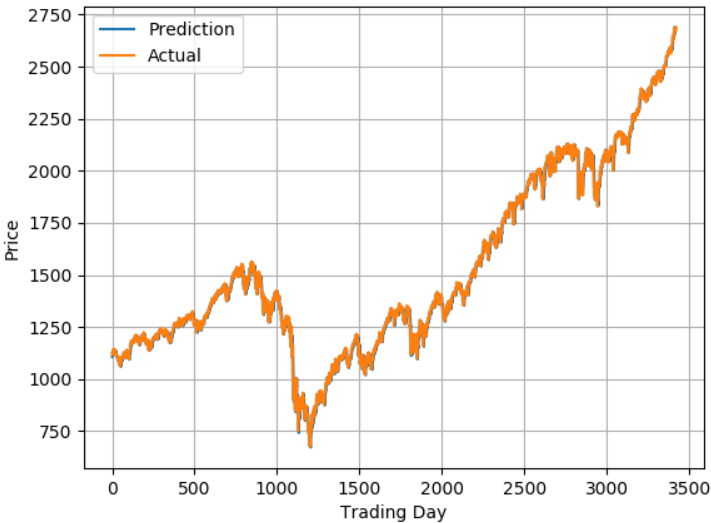
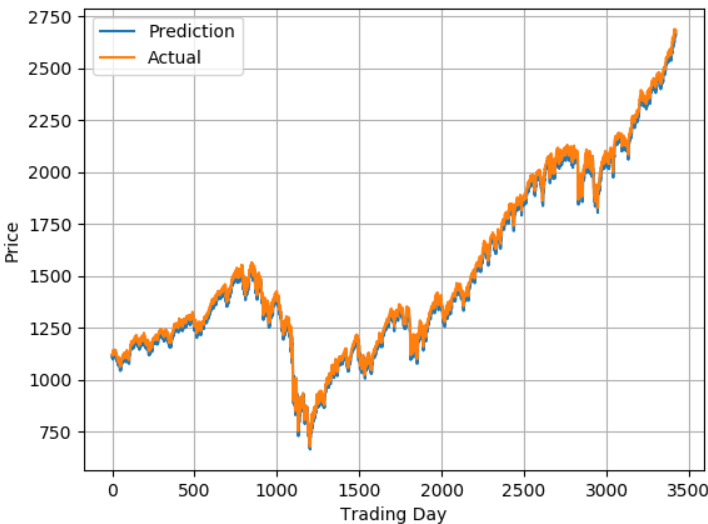
eval

Changed region(s): [[0.0, 0.0, 1.0, 1.0], [0.3729, 0.3977, 0.404, 0.4283], [0.2486, 0.3977, 0.2797, 0.4283]]

diff --git a/machine_learning/optimized_ffnn/ffnn.py b/machine_learning/optimized_ffnn/ffnn.py
@@ -29,6 +29,37 @@ def bulid_TIs_dataset(stock_symbol, start_date, end_date, window, normalize=True
     print(df.tail())
     return df, scaler
 
+def bulid_new_TIs_dataset(stock_symbol, start_date, end_date, window, normalize=True):
+    cols = ["Date", "Adj Close", "Volume"]
+    df = get_stock_data(stock_symbol, start_date, end_date, cols)
+    df.rename(columns={"Adj Close" : 'price'}, inplace=True)
+    df['momentum'] = dpp.compute_momentum_ratio(df['price'], window)
+    df['sma'] = dpp.compute_sma_ratio(df['price'], window)
+    df['bolinger_band'] = dpp.compute_bollinger_bands_ratio(df['price'], window)
+    df['volatility'] = dpp.compute_volatility_ratio(df['price'], window)
+    df['vroc'] = dpp.compute_vroc_ratio(df['Volume'], window)
+    df['actual_price'] = df['price']
+    df.drop(columns=["Volume"], inplace=True)
+    df = df[window:]
+    df.replace([np.inf, -np.inf], np.nan, inplace=True)
+    df.fillna(method='ffill', inplace=True)
+    df.fillna(method='bfill', inplace=True)
+    scaler = None
+
+    if normalize:        
+        scaler = MinMaxScaler()
+        df['price'] = scaler.fit_transform(df['price'].values.reshape(-1,1))
+        df['momentum'] = scaler.fit_transform(df['momentum'].values.reshape(-1,1))
+        df['sma'] = scaler.fit_transform(df['sma'].values.reshape(-1,1))
+        df['bolinger_band'] = scaler.fit_transform(df['bolinger_band'].values.reshape(-1,1))
+        df['volatility'] = scaler.fit_transform(df['volatility'].values.reshape(-1,1))
+        df['vroc'] = scaler.fit_transform(df['vroc'].values.reshape(-1,1))
+        df['actual_price'] = scaler.fit_transform(df['actual_price'].values.reshape(-1,1))
+        
+    print(df.head())
+    print(df.tail())
+    return df, scaler
+
 def ffnn_dataset_reshape(dataset, future_gap, split):
     print("Dataset Shape:", dataset.shape)
     X = dataset[:, :-1]

diff --git a/machine_learning/optimized_ffnn/ffnn_main.py b/machine_learning/optimized_ffnn/ffnn_main.py
@@ -12,13 +12,13 @@ def main(internal_eval=False):
     stock_symbol = '^GSPC'
     start_date = '1950-01-01'
     end_date = '2017-12-31'
-    window = 5
-    dataframe, scaler = ffnn.bulid_TIs_dataset(stock_symbol, start_date, end_date, window)
+    window = 2
+    dataframe, scaler = ffnn.bulid_new_TIs_dataset(stock_symbol, start_date, end_date, window)
 
     #reshaping the dataset for FFNN
     print("\n> reshaping the dataset for FFNN...")
     dataset = dataframe.values
-    future_gap = 5 #1 trading week
+    future_gap = 1 #1 trading day
     split = 0.8 #80% of the dataset
     X_train, Y_train, X_test, Y_test = ffnn.ffnn_dataset_reshape(dataset, future_gap, split)
 
@@ -37,7 +37,7 @@ def main(internal_eval=False):
     batch_size = 4096
     epochs = 200
     validation_split = 0.1
-    history = ffnn.model_fit(model, X_train, Y_train, batch_size, epochs, validation_split,
+    _ = ffnn.model_fit(model, X_train, Y_train, batch_size, epochs, validation_split,
                              verbose, [early_stopping_callback])
 
     #internal evaluation

diff --git a/machine_learning/optimized_lstm/lstm_main.py b/machine_learning/optimized_lstm/lstm_main.py
@@ -12,14 +12,14 @@ def main(internal_eval=False):
     stock_symbol = '^GSPC'
     start_date = '1950-01-01'
     end_date = '2017-12-31'
-    window = 5
+    window = 2
     dataframe, scaler = lstm.bulid_TIs_dataset(stock_symbol, start_date, end_date, window)
 
     #reshaping the dataset for LSTM
     print("\n> reshaping the dataset for LSTM...")
     dataset = dataframe.values
-    time_steps = 5 #1 trading week
-    future_gap = 5 #1 trading day
+    time_steps = 1 #1 trading day
+    future_gap = 1 #1 trading day
     split = 0.8 #80% of the dataset
     X_train, Y_train, X_test, Y_test = lstm.lstm_dataset_reshape(dataset, time_steps, future_gap, split)
 

diff --git a/machine_learning/new_evaluation.md b/machine_learning/new_evaluation.md
@@ -5,8 +5,8 @@
 | stock      | ^GSPC       | S&P 500 |
 | start date | 1950-01-01  | stock historical data start date |
 | end date   | 2017-12-31  | stock historical data end date |
-| window     | 5           | window for computing rolling statistics |
-| future gap | 5           | how far (trading days) into the future is the prediction |
+| window     | 2           | window for computing rolling statistics |
+| future gap | 1, 5, 20    | how far (trading days) into the future is the prediction |
 | split      | 0.8         | training-testing dataset split |
 
 ### Evaluation metrics
@@ -25,10 +25,12 @@
 python -m machine_learning.optimized_lstm.lstm_main
 ```
 | Future Gap | RMSE | MAPE | Corr | R^2 |
-| :--------: | :--: | :--: | :--: | :-: |
-| 1 day      | x    | y    | i    | j   |
-| 1 week     | 0.056| 5.075| 0.092| 0.788|
-| 1 month    | x    | y    | i    | j   |
+| :--------: | :--: | :--: | :--: | :--: |
+| 1 day      | 0.007| 1.033| 0.999| 0.998|
+| 1 week     | 0.012| 1.642| 0.998| 0.995|
+| 1 month    | 0.026| 3.708| 0.992| 0.972|
+
+*shown below is a 1 trading day future gap*
 
 ![Optimized LSTM](https://github.com/ahmedhamdi96/ML4T/blob/master/results/optimized_lstm.png)
 
@@ -38,23 +40,13 @@ python -m machine_learning.optimized_ffnn.ffnn_main
 ```
 | Future Gap | RMSE | MAPE | Corr | R^2 |
 | :--------: | :--: | :--: | :--: | :-: |
-| 1 day      | x    | y    | i    | j   |
-| 1 week     | 0.013| 1.786| 0.998| 0.994|
-| 1 month    | x    | y    | i    | j   |
+| 1 day      | 0.009| 1.401| 0.999| 0.997|
+| 1 week     | 0.015| 2.108| 0.998| 0.992|
+| 1 month    | 0.021| 3.014| 0.992| 0.984|
+
+*shown below is a 1 trading day future gap*
 
 ![Optimized FFNN](https://github.com/ahmedhamdi96/ML4T/blob/master/results/optimized_ffnn.png)
-
-* <strong> New Linear Regression </strong>
-```sh
-python -m machine_learning.new_regression.new_linear_regression
-```
-| Future Gap | RMSE | MAPE | Corr | R^2 |
-| :--------: | :--: | :--: | :--: | :-: |
-| 1 day      | x    | y    | i    | j   |
-| 1 week     | 0.011| 1.597| 0.998| 0.995|
-| 1 month    | x    | y    | i    | j   |
-
-![New Linear Regression](https://github.com/ahmedhamdi96/ML4T/blob/master/results/new_lin_reg.png)
 
 ## Hyperparameter Tuning
 
